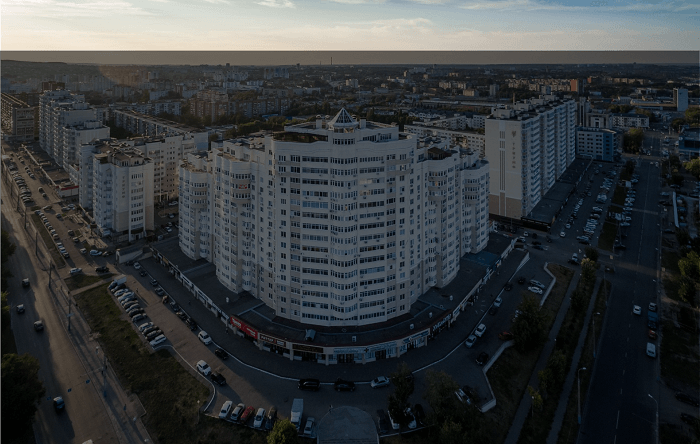
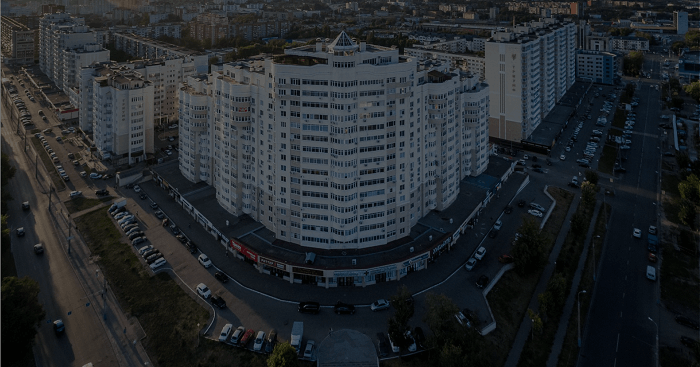
client: Fix MainSection styles

diff --git a/client/components/MainSection/MainSection.tsx b/client/components/MainSection/MainSection.tsx
@@ -4,6 +4,8 @@ import Link from 'next/link'
 import s from './MainSection.module.scss'
 import GetPhoneNum from '../GetPhoneNum/GetPhoneNum';
 import Image from 'next/image';
+import SectionTitle from '../SectionTitle/SectionTitle';
+import { TypeColor } from '../../interfaces/enums';
 
 type MainSectionProps = {}
 
@@ -33,6 +35,7 @@ const MainSection: React.FC<MainSectionProps> = () => {
                 Продажа и аренда недвижимости в Пензе<br/>опыт работы более 10 лет
             </h1>
             <GetPhoneNum />
+
         </section >
     );
 };

diff --git a/client/components/MainSection/MainSection.module.scss b/client/components/MainSection/MainSection.module.scss
@@ -1,9 +1,13 @@
 .section {
     background: url("/img/title_bg.png") no-repeat;
-    background-size: cover 50px;
-    background-position: center -140px;
-    height: 1079px;
+    background-size: cover;
+    // background-position: 0 -140px;
+    // background-position-x: center;
+    // background-position-y: -140px;
+    // height: 2079px;
     padding-top: 20px;
+    // background-attachment:fixed;
+    // padding-bottom: 100px;
 }
 
 .nav {

diff --git a/client/components/GetPhoneNum/GetPhoneNum.module.scss b/client/components/GetPhoneNum/GetPhoneNum.module.scss
@@ -1,3 +1,6 @@
+.wrap{
+    padding-bottom: 100px;
+}
 .popupText{
     padding: 20px 20px;
     font-size: 18px;
